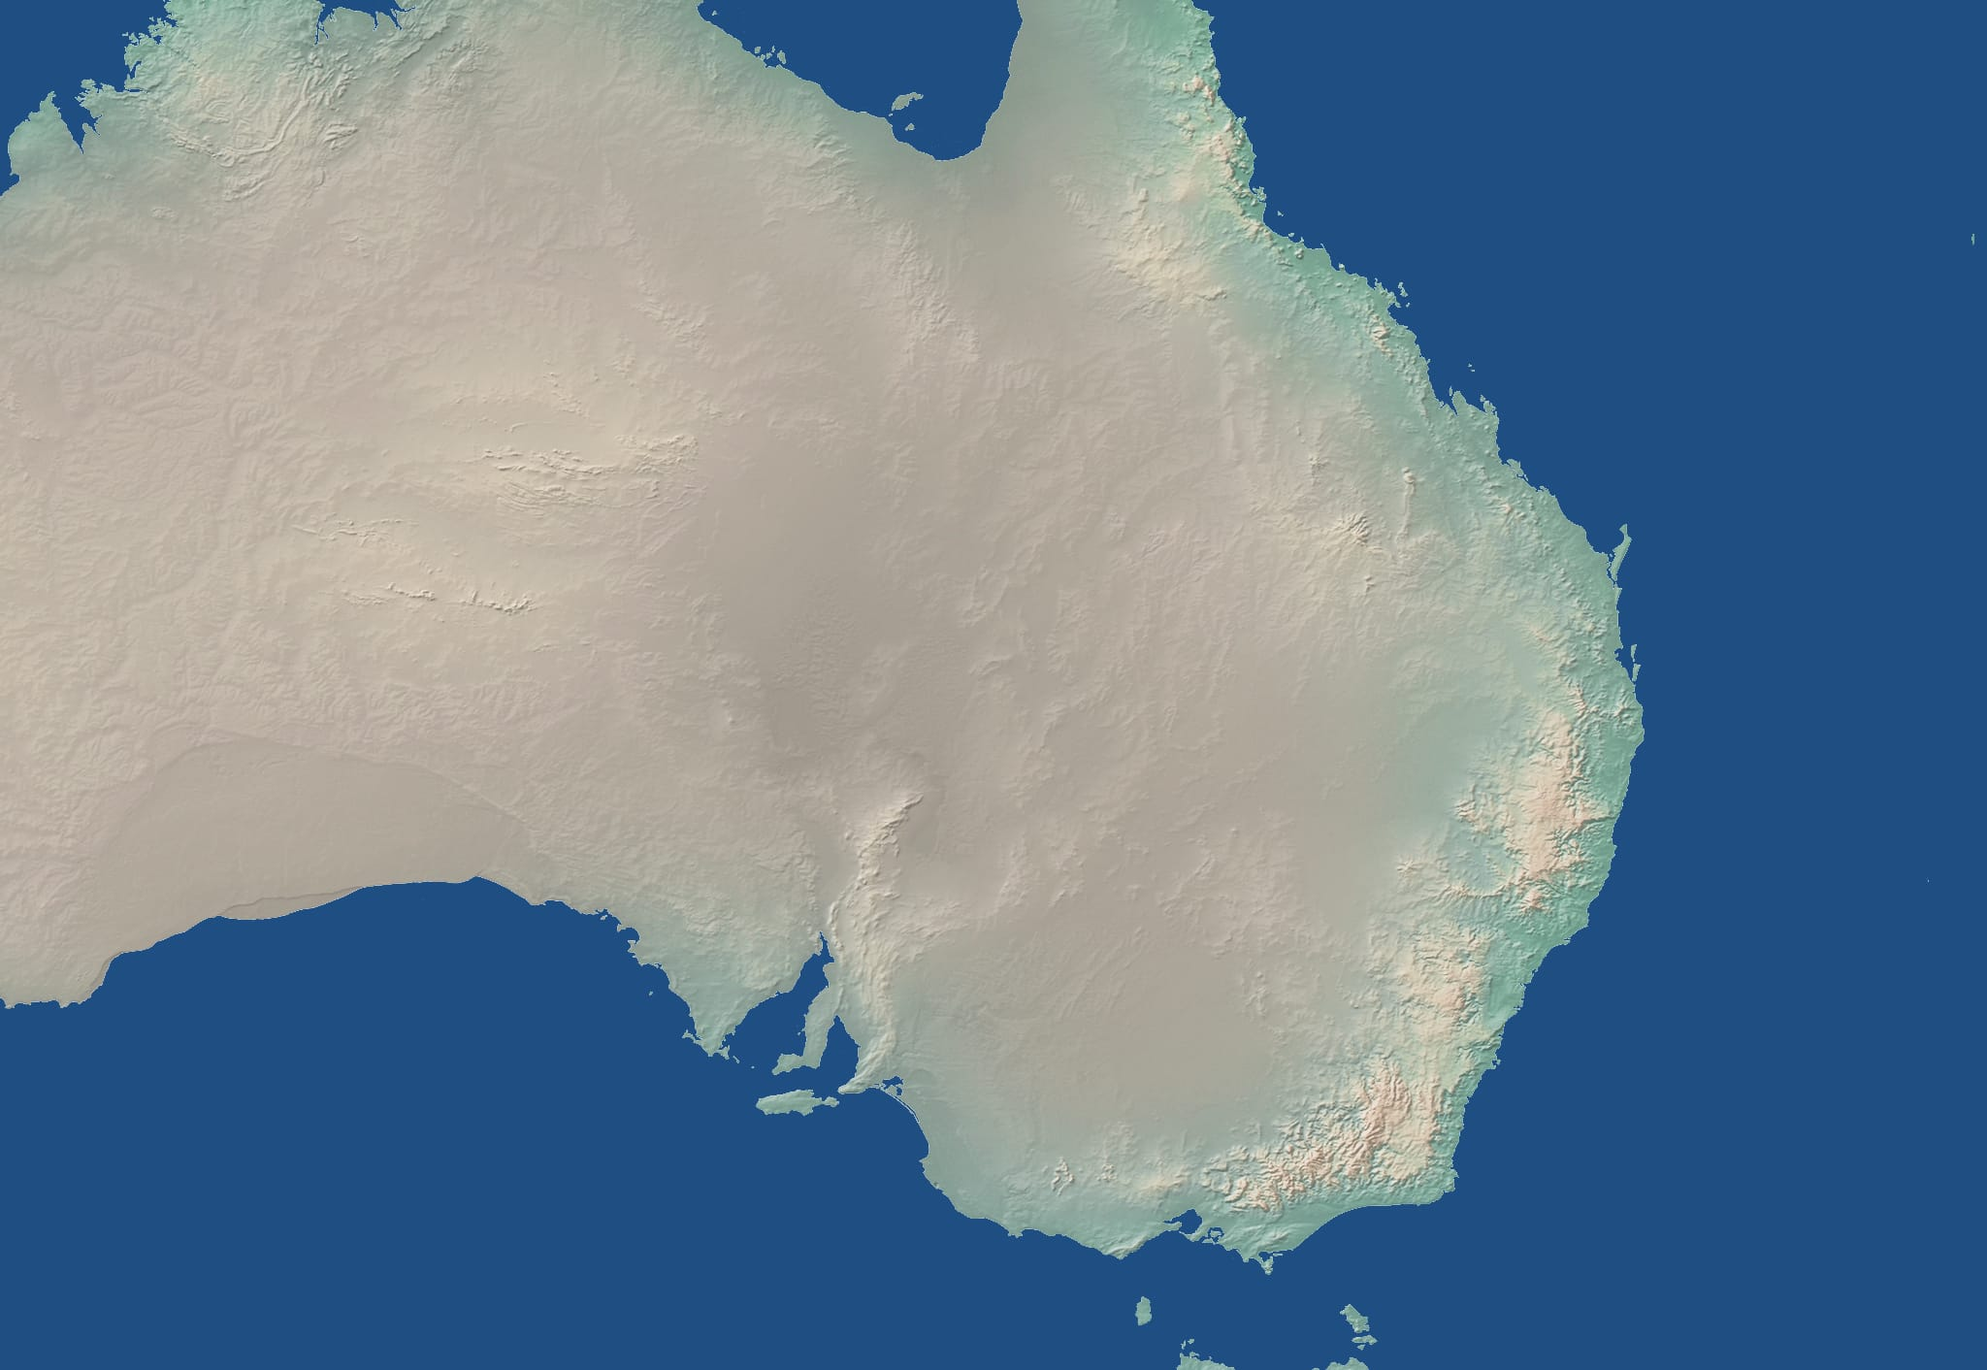
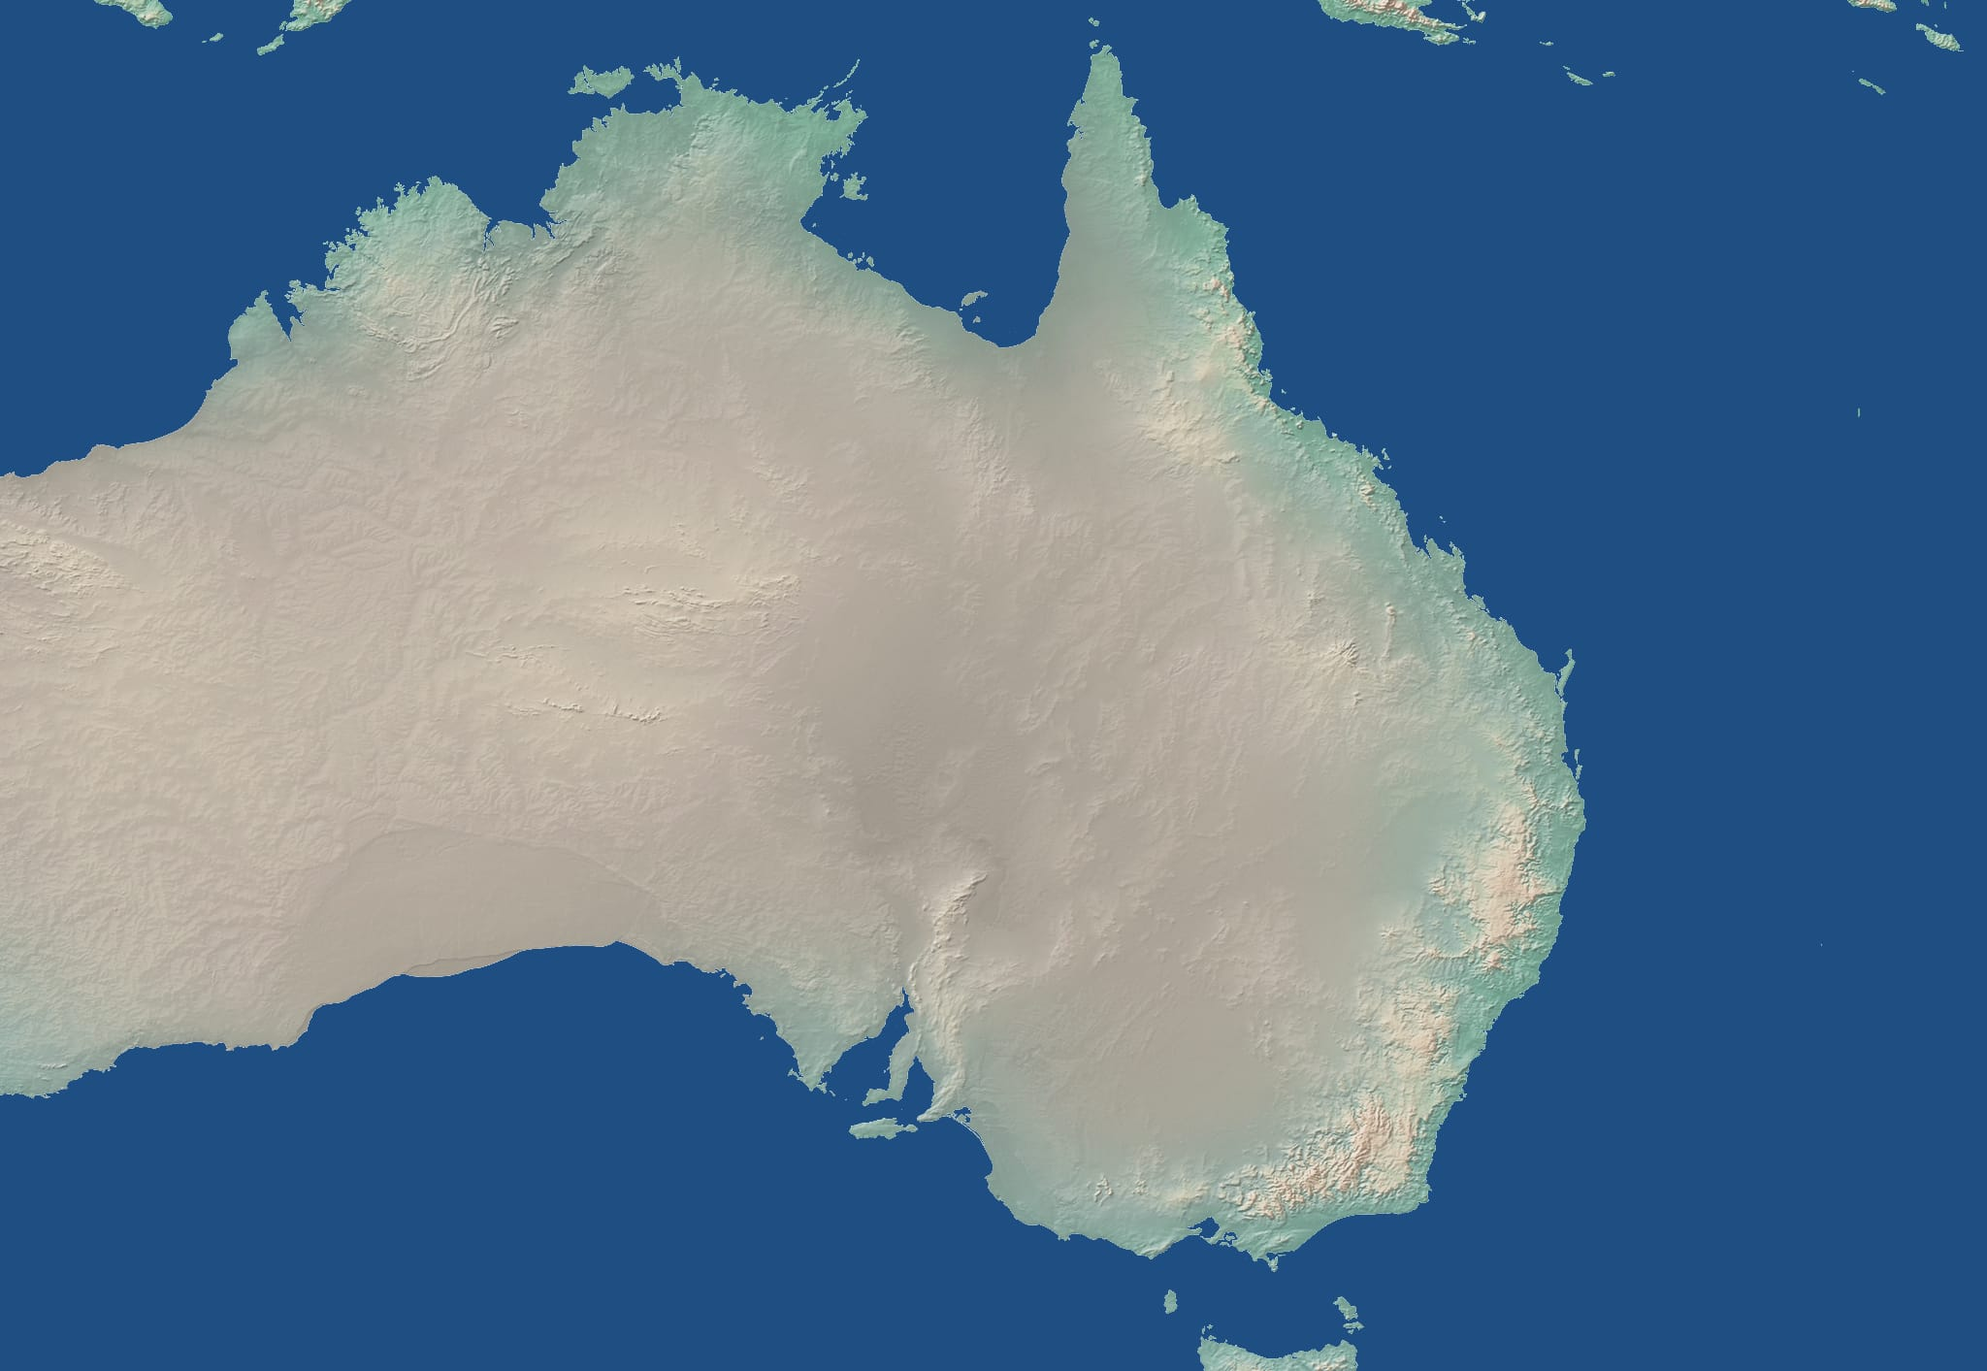
Seven places for Oceania — and four subjects it had none of
Oceania was the thinnest populated continent at 30 places against Europe's 110,
and thin in a lopsided way that the raw count hides: THIRTEEN of the 30 were
`coast`. The layer had no ice, no river, no sacred place and no rock art at all,
so a child working through it met beach after lagoon after reef. These seven were
picked to widen the SUBJECTS as much as the number, and to take Micronesia off a
single lonely landmark.

  Chuuk Lagoon (Micronesia)      a lagoon with a sunken fleet on its floor
  Franz Josef Glacier (NZ)       the continent's first ice — a glacier ending in rainforest
  Purnululu (Australia)          the banded beehive domes of the Bungle Bungles
  Ubirr (Australia)              rock art including a thylacine, gone 2,000 years
  Sri Siva Subramaniya (Fiji)    the first sacred place, and why Fiji is partly Hindu
  Sepik River (PNG)              the continent's first river, and it has no delta
  Taputapuatea (Fr. Polynesia)   the marae Polynesian voyaging set out from

Every photo went through `scripts/commons.mjs verify` (real file, free licence,
landscape) and every coordinate came from the place's own Wikipedia article via
the MediaWiki API. Two candidates were dropped rather than fudged: Kepirohi
Waterfall has no coordinates on Wikipedia to cite, and every Truk wreck photo is
portrait. Greetings are the countries' existing verified ones, not new ones.

Three tests caught real mistakes, which is the whole reason they exist:
[…]

diff --git a/src/data/locations.js b/src/data/locations.js
@@ -5235,5 +5235,116 @@ export const LOCATIONS = [
     photo: { src: "https://commons.wikimedia.org/wiki/Special:FilePath/Nan Madol, Pohnpei.jpg?width=800",
       credit: "Uhooep", license: "CC BY-SA 4.0", licenseUrl: "https://creativecommons.org/licenses/by-sa/4.0/",
       source: "https://commons.wikimedia.org/wiki/File:Nan Madol, Pohnpei.jpg" },
-    greeting: { text: "Kaselehlie", language: "Pohnpeian", pronunciation: "kah-seh-LEH-lee-eh" } },
+    greeting: { text: "Kaselehlie", language: "Pohnpeian", pronunciation: "kah-seh-LEH-lie-eh" } },
+
+  // ==========================================================================
+  // OCEANIA, 2026-07-27. The thinnest populated continent at 30 places against
+  // Europe's 110 — and thin in a lopsided way: THIRTEEN of those 30 were `coast`,
+  // and the continent had no ice, no river, no sacred place and no rock art at
+  // all. So these seven were chosen to widen the SUBJECTS as much as the count,
+  // and to take Micronesia off a single lonely landmark.
+  //
+  // Every photo below was run through `node scripts/commons.mjs verify` (free
+  // licence, real file, landscape) and every coordinate came from the place's own
+  // Wikipedia article via the MediaWiki API. Two candidates were dropped rather
+  // than fudged: Kepirohi Waterfall, which has no coordinates on Wikipedia to cite,
+  // and the Truk wreck photos, which are all portrait.
+  // ==========================================================================
+
+  // Micronesia's second place — it had only Nan Madol. Coast, but a lagoon so vast
+  // it reads as geography rather than another beach.
+  { id: "chuuklagoon", city: "Chuuk Lagoon", country: "Micronesia", flag: "🇫🇲", continent: "Oceania",
+    x: 331.735, y: 82.585,
+    subject: "the great lagoon and its sunken fleet", icon: "", category: "coast", tags: ["island", "reef"],
+    easy: "In Micronesia, in the western Pacific Ocean, a ring of coral reef encloses Chuuk Lagoon — one of the largest lagoons on Earth, with a whole sunken fleet resting on its floor.",
+    medium: "Word from Micronesia: a barrier reef the size of a county encircles a lagoon of green islands — and beneath the water lies a fleet that never sailed home. Photograph the lagoon.",
+    hard: "A ring of coral holds a sea of its own in the western Pacific, and on its floor rests a navy sunk in a single week. Bring me the lagoon.",
+    fact: "Chuuk Lagoon is one of the largest lagoons in the world, ringed by a barrier reef about 140 miles (225 km) around. It was Japan's main Pacific naval base in the Second World War, and dozens of ships sunk there in February 1944 still lie on the lagoon floor, now grown over with coral.",
+    photo: { src: "https://commons.wikimedia.org/wiki/Special:FilePath/Chuuk lagoon, Mochun Fanananei Pass aerial view (cropped).jpg?width=800",
+      credit: "Matt Kieffer", license: "CC BY-SA 2.0", licenseUrl: "https://creativecommons.org/licenses/by-sa/2.0/",
+      source: "https://commons.wikimedia.org/wiki/File:Chuuk lagoon, Mochun Fanananei Pass aerial view (cropped).jpg" },
+    greeting: { text: "Kaselehlie", language: "Pohnpeian", pronunciation: "kah-seh-LEH-lie-eh" } },
+
+  // Oceania had NO ice at all — a whole continent-layer with no frozen wonder.
+  { id: "franzjosef", city: "Franz Josef Glacier", country: "New Zealand", flag: "🇳🇿", continent: "Oceania",
+    x: 350.19167, y: 133.46694,
+    subject: "the glacier that ends in rainforest", icon: "", category: "ice", tags: ["glacier"],
+    easy: "On the South Island of New Zealand, Franz Josef Glacier flows down from the Southern Alps and ends among green rainforest, only a few miles from the sea.",
+    medium: "Word from New Zealand: a river of ice pours off a mountain range and stops among tree ferns and rainforest, almost within sight of the ocean. Photograph the glacier.",
+    hard: "A tongue of ice comes down off a young mountain range and ends, astonishingly, in warm rainforest a few miles from the sea. Bring me the glacier.",
+    fact: "Franz Josef Glacier runs about 7.5 miles (12 km) down from the Southern Alps and ends only around 980 feet (300 m) above sea level, among temperate rainforest — remarkably low and warm for a glacier. Its Māori name, Kā Roimata o Hine Hukatere, means 'the tears of Hine Hukatere.'",
+    photo: { src: "https://commons.wikimedia.org/wiki/Special:FilePath/Franz Josef glacier 2012.jpg?width=800",
+      credit: "Vaido Otsar", license: "CC BY-SA 4.0", licenseUrl: "https://creativecommons.org/licenses/by-sa/4.0/",
+      source: "https://commons.wikimedia.org/wiki/File:Franz Josef glacier 2012.jpg" },
+    greeting: { text: "Kia ora", language: "Māori", pronunciation: "KEE-ah OR-ah" } },
+
+  // Australia's interior, which the game showed only as red dunes and Uluru.
+  { id: "purnululu", city: "Purnululu", country: "Australia", flag: "🇦🇺", continent: "Oceania",
+    x: 308.56417, y: 107.46306,
+    subject: "the striped beehive domes of the Bungle Bungles", icon: "", category: "rock", tags: ["unesco"],
+    easy: "In the far north of Western Australia, the Bungle Bungle Range in Purnululu National Park is a maze of sandstone domes striped orange and grey like beehives.",
+    medium: "Word from Australia: hundreds of sandstone towers stand banded in orange and charcoal, shaped like beehives — and outsiders knew nothing of them until the 1980s. Photograph the domes.",
+    hard: "A hidden range of banded sandstone beehives in a remote north-western desert, unknown to the wider world until forty years ago. Bring me the striped domes.",
+    fact: "The Bungle Bungle Range rises about 800 feet (250 m) above the plain in beehive-shaped domes banded orange and dark grey. The orange bands are stained with iron; the darker ones are living cyanobacteria. Aboriginal people have known the range for thousands of years, but it was not widely known outside the region until 1983.",
+    photo: { src: "https://commons.wikimedia.org/wiki/Special:FilePath/Purnululu National Park (Bungle Bungles) WA -.jpg?width=800",
+      credit: "RustyRoots", license: "CC BY-SA 4.0", licenseUrl: "https://creativecommons.org/licenses/by-sa/4.0/",
+      source: "https://commons.wikimedia.org/wiki/File:Purnululu National Park (Bungle Bungles) WA -.jpg" },
+    greeting: { text: "G'day", language: "English (Australian)", pronunciation: "g-DAY" } },
+
+  // The oldest human story in the game, and Oceania had nothing like it.
+  { id: "ubirr", city: "Ubirr", country: "Australia", flag: "🇦🇺", continent: "Oceania",
+    x: 312.95927, y: 102.40946,
+    subject: "the ancient rock art of Ubirr", icon: "", category: "ruins", tags: ["ancient", "unesco"],
+    easy: "In Kakadu National Park in northern Australia, the rock shelters at Ubirr are painted with Aboriginal art — some of it made thousands of years ago, by the oldest continuing culture on Earth.",
+    medium: "Word from Australia: under overhanging rock, generations painted the animals they hunted — including one striped creature that has not walked this land for thousands of years. Photograph the rock art.",
+    hard: "Beneath a sandstone overhang, a gallery painted and repainted for millennia records a striped predator that vanished from the mainland long ago. Bring me the paintings.",
+    fact: "The rock shelters at Ubirr in Kakadu hold Aboriginal paintings made over many thousands of years, part of the oldest continuing artistic tradition in the world. Among them are paintings of the thylacine, a striped predator that died out on the Australian mainland roughly 2,000 years ago.",
+    photo: { src: "https://commons.wikimedia.org/wiki/Special:FilePath/MK-06997 Ubirr rock art.jpg?width=800",
+      credit: "Martin Kraft", license: "CC BY-SA 3.0", licenseUrl: "https://creativecommons.org/licenses/by-sa/3.0/",
+      source: "https://commons.wikimedia.org/wiki/File:MK-06997 Ubirr rock art.jpg" },
+    greeting: { text: "G'day", language: "English (Australian)", pronunciation: "g-DAY" } },
+
+  // Oceania had no sacred place at all — and this one teaches why Fiji has a Hindu
+  // community in the first place, which is a piece of geography, not just a building.
+  { id: "sivasubramaniya", city: "Nadi", country: "Fiji", flag: "🇫🇯", continent: "Oceania",
+    x: 357.41498, y: 107.80731,
+    subject: "the Sri Siva Subramaniya temple", icon: "", category: "temple", tags: ["sacred"],
+    easy: "In Nadi on the island of Viti Levu in Fiji stands the Sri Siva Subramaniya temple — a brightly painted Hindu temple, the largest in the southern half of the world.",
+    medium: "Word from Fiji: on a Pacific island better known for beaches, a tower of carved and painted gods rises in the South Indian style, built by craftsmen who came from India to raise it. Photograph the temple.",
+    hard: "A South Indian temple tower, painted in every colour, stands on a Pacific island thousands of miles from the country whose gods it houses. Bring me the temple.",
+    fact: "The Sri Siva Subramaniya temple in Nadi is the largest Hindu temple in the Southern Hemisphere, built in the South Indian Dravidian style with carvers and materials brought from India. Fiji has a large Hindu community because tens of thousands of indentured labourers were brought from India from 1879 onward to work the sugar plantations.",
+    photo: { src: "https://commons.wikimedia.org/wiki/Special:FilePath/Sri Siva Subramaniya Swami Temple - Nadi, Fiji 3.jpg?width=800",
+      credit: "Mark Heard", license: "CC BY 2.0", licenseUrl: "https://creativecommons.org/licenses/by/2.0/",
+      source: "https://commons.wikimedia.org/wiki/File:Sri Siva Subramaniya Swami Temple - Nadi, Fiji 3.jpg" },
+    greeting: { text: "Bula", language: "Fijian", pronunciation: "BOO-lah" } },
+
+  // Oceania's first river. The continent had waterfalls and lagoons but not one
+  // waterway, which made the whole layer read as coastline.
+  { id: "sepikriver", city: "Sepik River", country: "Papua New Guinea", flag: "🇵🇬", continent: "Oceania",
+    x: 324.54167, y: 93.84167,
+    subject: "the Sepik River", icon: "", category: "waterway", tags: ["river"],
+    easy: "The Sepik River winds for hundreds of miles across northern Papua New Guinea — a huge river with no delta at all, which simply runs straight out into the sea.",
+    medium: "Word from Papua New Guinea: a great brown river coils across the north of the island past villages of carvers and their tall spirit houses, and reaches the sea without building a delta. Photograph the river.",
+    hard: "One of the largest rivers of New Guinea loops through swamp and forest to the coast — and unlike almost every river its size, it has built no delta. Bring me the river.",
+    fact: "The Sepik River runs about 700 miles (1,126 km) across northern Papua New Guinea. Unusually for a river of its size it has no delta, emptying straight into the sea. The villages along it are famous for wood carving and for their haus tambaran, tall spirit houses with steeply peaked roofs.",
+    photo: { src: "https://commons.wikimedia.org/wiki/Special:FilePath/Sepik 0266.jpg?width=800",
+      credit: "Top1963", license: "CC BY-SA 3.0", licenseUrl: "https://creativecommons.org/licenses/by-sa/3.0/",
+      source: "https://commons.wikimedia.org/wiki/File:Sepik 0266.jpg" },
+    greeting: { text: "Gude", language: "Tok Pisin", pronunciation: "GOO-day" } },
+
+  // The place Polynesia sailed FROM — the single best answer to "how did people
+  // reach all these islands?", which the Oceania layer never explained.
+  { id: "taputapuatea", city: "Raiatea", country: "French Polynesia", flag: "🇵🇫", continent: "Oceania",
+    // Stored west of the antimeridian like every other French Polynesian place
+    // (x = lon + 180 = 28.64). The Pacific-centred Oceania view adds the 360 itself.
+    x: 28.6408, y: 106.8361,
+    subject: "the marae of Taputapuātea", icon: "", category: "temple", tags: ["ancient", "unesco", "sacred"],
+    easy: "On the island of Raiatea in French Polynesia stands Taputapuātea — a great stone marae, or ceremonial ground, at the heart of the Polynesian voyaging world.",
+    medium: "Word from French Polynesia: on an island once called Havai'i, a platform of black stone was the meeting place of navigators from across the ocean, who set out from here to find islands thousands of miles away. Photograph the marae.",
+    hard: "A low stone temple on a Pacific island that ancient navigators treated as the centre of their world, and from which they sailed to the farthest corners of the ocean. Bring me the marae.",
+    fact: "Taputapuātea on Raiatea is one of the most important marae — ceremonial grounds — in Polynesia. Raiatea was known as Havai'i, and Polynesian tradition remembers it as a centre from which voyaging canoes set out across the Pacific to islands as distant as Hawai'i, Aotearoa (New Zealand) and Rapa Nui.",
+    photo: { src: "https://commons.wikimedia.org/wiki/Special:FilePath/Taputapuatea marae Raiatea.jpg?width=800",
+      credit: "Sur la route", license: "CC BY 2.0", licenseUrl: "https://creativecommons.org/licenses/by/2.0/",
+      source: "https://commons.wikimedia.org/wiki/File:Taputapuatea marae Raiatea.jpg" },
+    greeting: { text: "Ia ora na", language: "Tahitian", pronunciation: "yah-oh-RAH-nah" } },
 ];

diff --git a/src/data/relief-plates.js b/src/data/relief-plates.js
@@ -88,13 +88,13 @@ export const COUNTRY_PLATES = {
   "North America|Nicaragua": { f: "north-america-nicaragua.jpg", x: 90.9168, y: 74.5598, w: 7.3665, h: 5.0803 },
   "North America|Panama": { f: "north-america-panama.jpg", x: 96.221, y: 79.055, w: 7.308, h: 5.04 },
   "North America|Trinidad and Tobago": { f: "north-america-trinidad-and-tobago.jpg", x: 115.121, y: 76.805, w: 7.308, h: 5.04 },
-  "Oceania|Australia": { f: "oceania-australia.jpg", x: 301.9823, y: 104.6154, w: 38.2355, h: 26.3693 },
+  "Oceania|Australia": { f: "oceania-australia.jpg", x: 296.8263, y: 99.6542, w: 46.1115, h: 31.801 },
   "Oceania|Fiji": { f: "oceania-fiji.jpg", x: 354.956, y: 104.975, w: 7.308, h: 5.04 },
   "Oceania|French Polynesia": { f: "oceania-french-polynesia.jpg", x: 386.681, y: 103.805, w: 7.308, h: 5.04 },
-  "Oceania|Micronesia": { f: "oceania-micronesia.jpg", x: 334.686, y: 80.64, w: 7.308, h: 5.04 },
+  "Oceania|Micronesia": { f: "oceania-micronesia.jpg", x: 331.0428, y: 80.1175, w: 7.9894, h: 5.5099 },
   "Oceania|New Caledonia": { f: "oceania-new-caledonia.jpg", x: 342.451, y: 109.135, w: 7.308, h: 5.04 },
   "Oceania|New Zealand": { f: "oceania-new-zealand.jpg", x: 346.2621, y: 127.4083, w: 11.5759, h: 7.9834 },
-  "Oceania|Papua New Guinea": { f: "oceania-papua-new-guinea.jpg", x: 324.1012, y: 93.7324, w: 8.9976, h: 6.2052 },
+  "Oceania|Papua New Guinea": { f: "oceania-papua-new-guinea.jpg", x: 323.4964, y: 93.2592, w: 9.7489, h: 6.7234 },
   "Oceania|Solomon Is.": { f: "oceania-solomon-is-.jpg", x: 334.721, y: 96.23, w: 7.308, h: 5.04 },
   "Oceania|Vanuatu": { f: "oceania-vanuatu.jpg", x: 344.5177, y: 104.672, w: 7.6646, h: 5.286 },
   "South America|Bolivia": { f: "south-america-bolivia.jpg", x: 104.8491, y: 98.3166, w: 23.1517, h: 15.9667 },

diff --git a/test/data.test.js b/test/data.test.js
@@ -1121,13 +1121,14 @@ describe("world map coverage", () => {
     const outside = LOCATIONS
       .filter((l) => { const x = eqToRobinson(l.x, l.y).x; return x < LEFT || x > RIGHT; })
       .map((l) => l.id).sort();
-    // West of the left edge: French Polynesia (Bora Bora, Moorea, Rangiroa) and —
-    // the one that isn't Oceania at all — Kīlauea, in Hawaii, filed under North
-    // America. East of the right edge: three places in Fiji. Every one is a real,
-    // reachable landmark on its own continent map; they are only off the WORLD map's
-    // trimmed frame, which is why flights leaving them are clamped.
+    // West of the left edge: French Polynesia (Bora Bora, Moorea, Rangiroa, and
+    // Taputapuātea on Raiatea) and — the one that isn't Oceania at all — Kīlauea, in
+    // Hawaii, filed under North America. East of the right edge: four places in Fiji.
+    // Every one is a real, reachable landmark on its own continent map; they are only
+    // off the WORLD map's trimmed frame, which is why flights leaving them are clamped.
     expect(outside).toEqual([
-      "borabora", "boumafalls", "kilauea", "mamanuca", "mountrotui", "rangiroa", "sigatokadunes",
+      "borabora", "boumafalls", "kilauea", "mamanuca", "mountrotui", "rangiroa",
+      "sigatokadunes", "sivasubramaniya", "taputapuatea",
     ]);
   });
 
